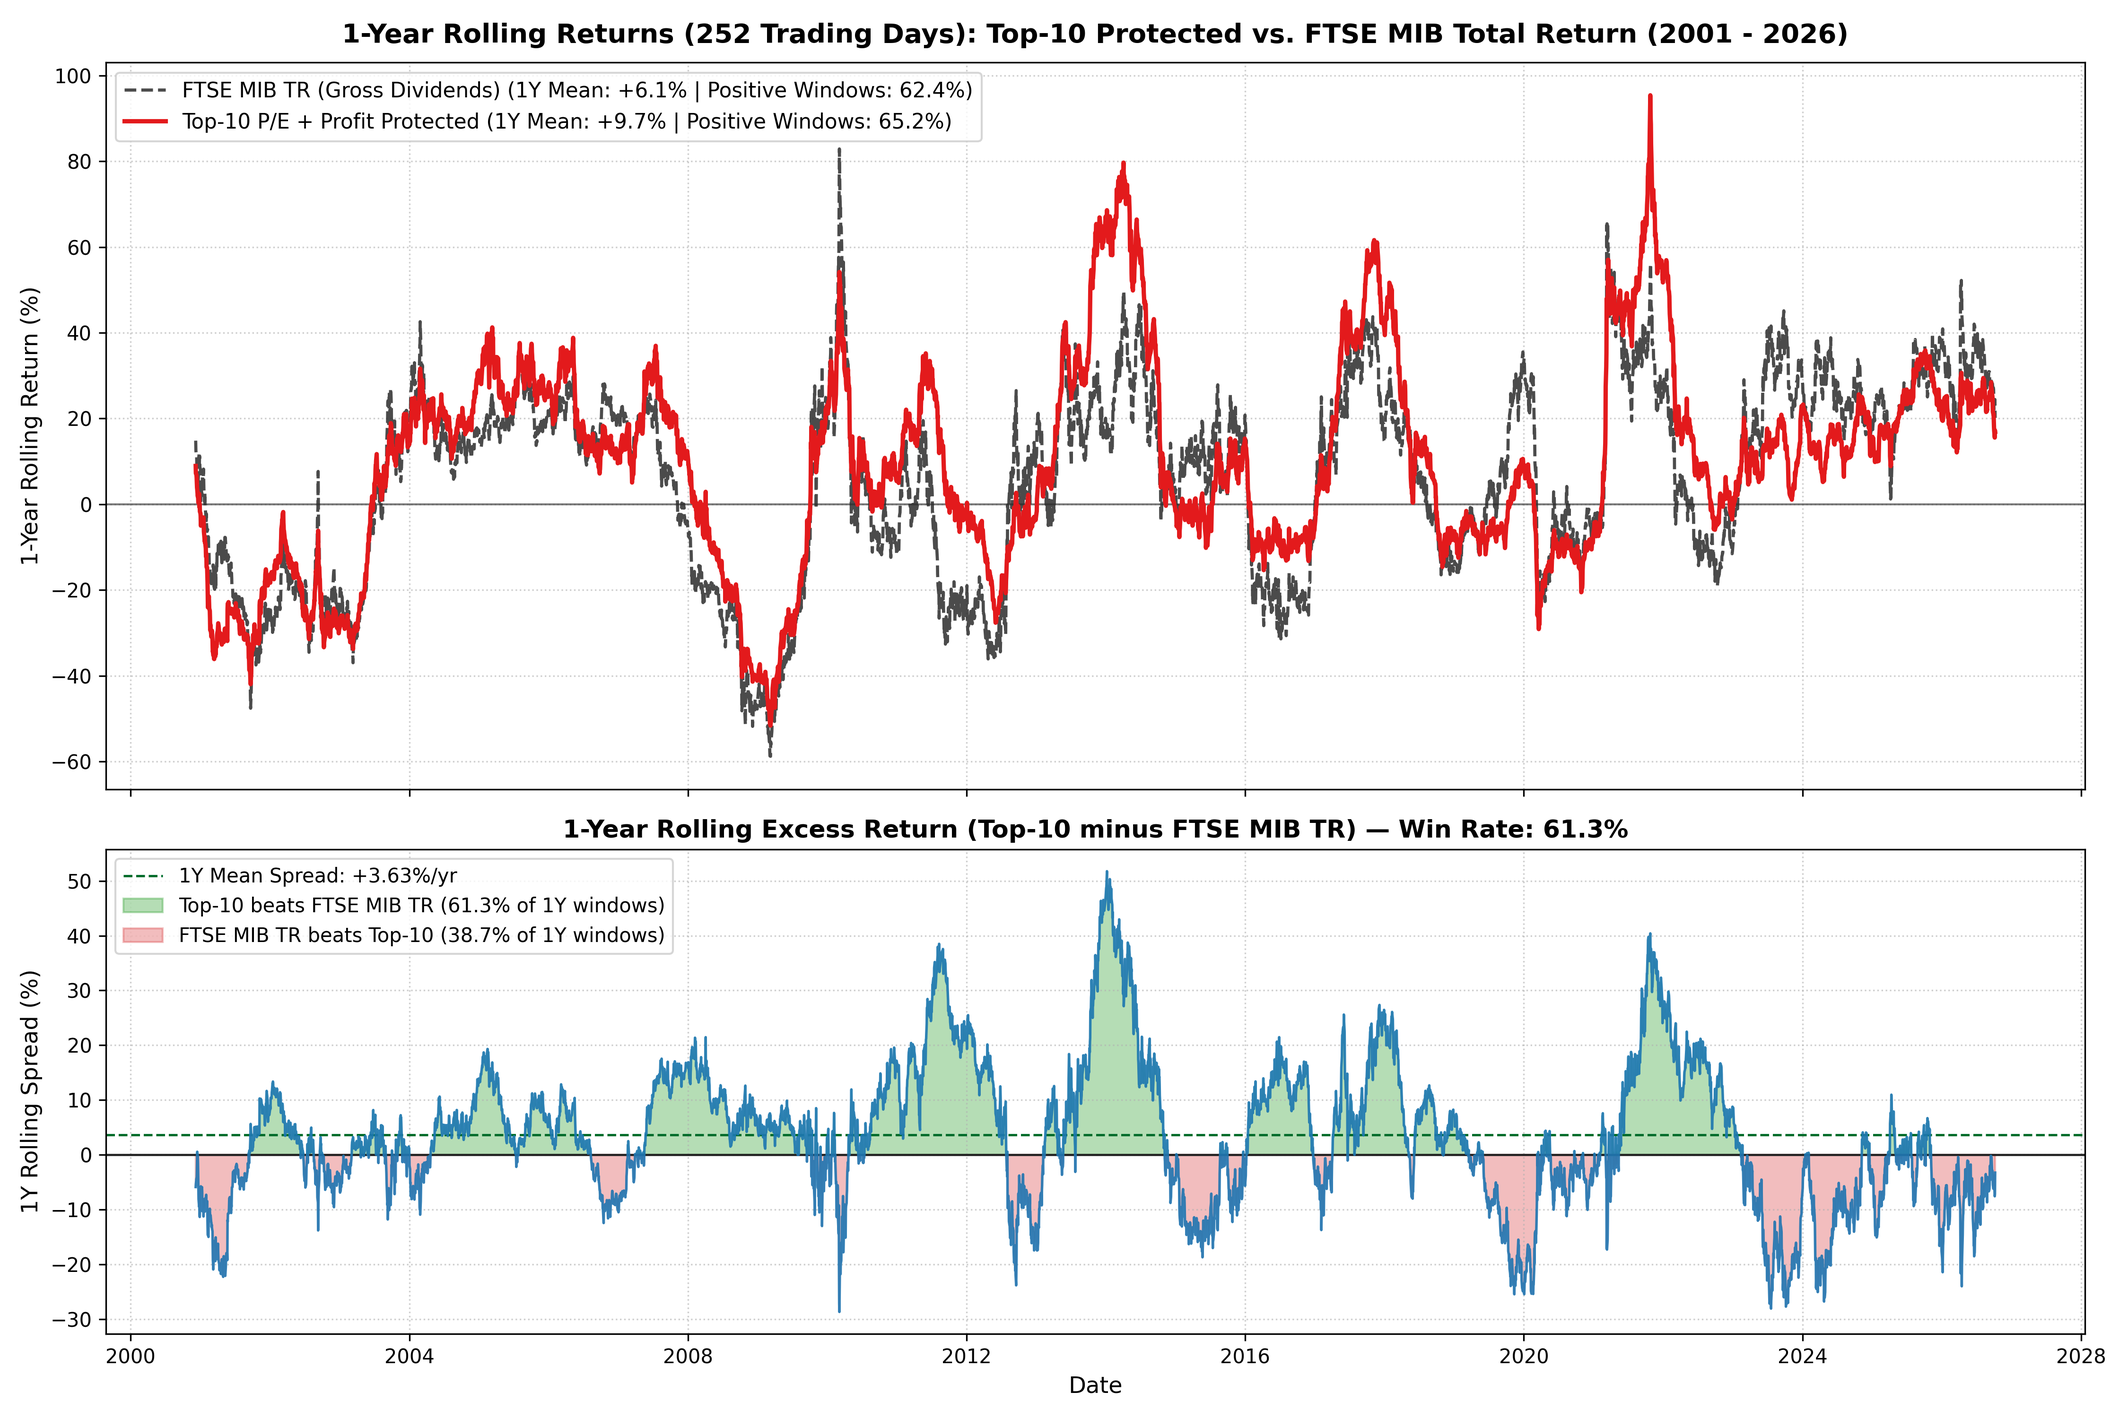
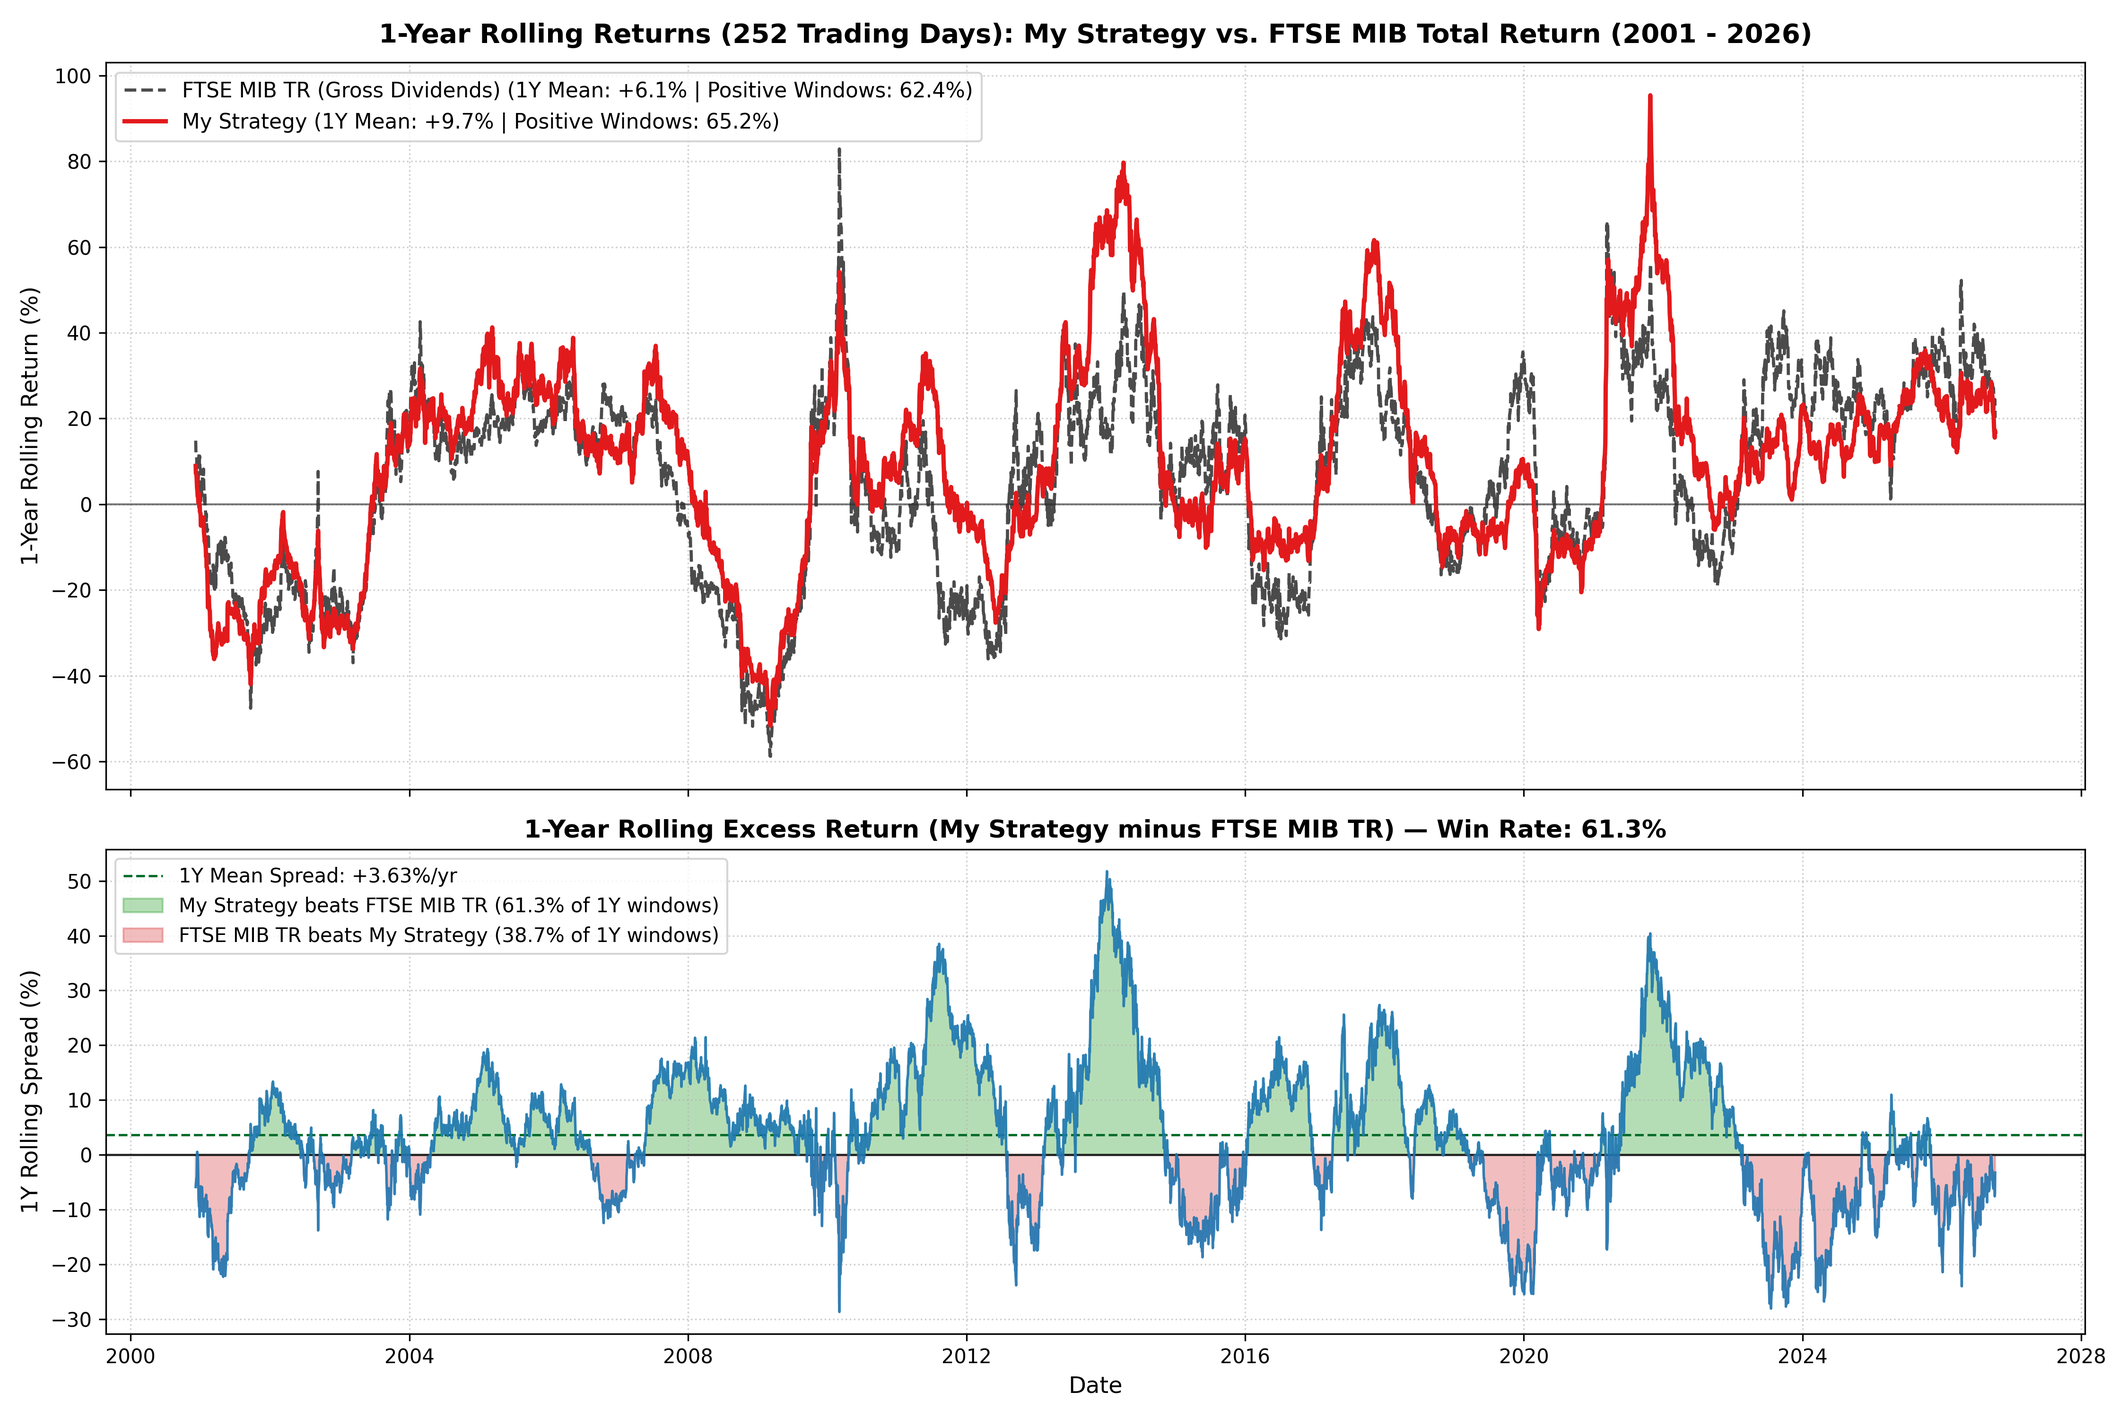
Rename strategy to 'My Strategy' and display only My Strategy vs FTSE MIB TR in charts

Changed region(s): [[0.0933, 0.558, 0.7778, 0.682], [0.1556, 0.0, 0.8711, 0.031], [0.0933, 0.062, 0.4044, 0.093]]

diff --git a/scripts/06_plot_rolling_returns.py b/scripts/06_plot_rolling_returns.py
@@ -63,7 +63,7 @@ def main():
     )
     res_top10 = engine_q.run(
         model=top10_model,
-        strategy_name="Top-10 P/E + Profit (Protetta)",
+        strategy_name="My Strategy",
         returns_matrix=returns_matrix,
         prices_matrix=prices_matrix,
         min_assets=10,
@@ -97,15 +97,15 @@ def main():
     print("STATISTICHE ROLLING RETURNS A 1 ANNO (252 GIORNI DI BORSA, 2001 - 2026)")
     print("=" * 84)
     print(f"Numero finestre rolling 1Y analizzate:        {len(common_idx):,}")
-    print(f"Rendimento Medio 1Y - Top-10 P/E + Profit:    {mean_top10:+.2f}% ( Finestre > 0%: {pos_rate_top10:.1f}% )")
+    print(f"Rendimento Medio 1Y - My Strategy:            {mean_top10:+.2f}% ( Finestre > 0%: {pos_rate_top10:.1f}% )")
     print(f"Rendimento Medio 1Y - FTSE MIB TR (con Div):  {mean_bench:+.2f}% ( Finestre > 0%: {pos_rate_bench:.1f}% )")
     print(f"Extra-Rendimento Medio 1Y (Spread):           {mean_excess:+.2f}% ( Mediana: {median_excess:+.2f}% )")
-    print(f"Hit Rate (% Finestre 1Y in cui Top-10 batte FTSE MIB TR): {win_rate_vs_bench:.1f}%")
+    print(f"Hit Rate (% Finestre 1Y in cui My Strategy batte FTSE MIB TR): {win_rate_vs_bench:.1f}%")
 
     # Save rolling returns CSV
     config.REPORTS_DIR.mkdir(parents=True, exist_ok=True)
     roll_df = pd.DataFrame({
-        "Top10_PE_Profit_1Y_Pct": roll_top10,
+        "My_Strategy_1Y_Pct": roll_top10,
         "FTSEMIB_TR_1Y_Pct": roll_bench,
         "Excess_Return_1Y_Pct": excess_1y,
     })
@@ -130,13 +130,13 @@ def main():
     ax1.plot(
         roll_top10.index,
         roll_top10.values,
-        label=f"Top-10 P/E + Profit Protected (1Y Mean: {mean_top10:+.1f}% | Positive Windows: {pos_rate_top10:.1f}%)",
+        label=f"My Strategy (1Y Mean: {mean_top10:+.1f}% | Positive Windows: {pos_rate_top10:.1f}%)",
         color="#e31a1c",
         linewidth=2.2,
     )
 
     ax1.set_title(
-        "1-Year Rolling Returns (252 Trading Days): Top-10 Protected vs. FTSE MIB Total Return (2001 - 2026)",
+        "1-Year Rolling Returns (252 Trading Days): My Strategy vs. FTSE MIB Total Return (2001 - 2026)",
         fontsize=13.5,
         fontweight="bold",
         pad=10,
@@ -145,7 +145,7 @@ def main():
     ax1.grid(True, linestyle=":", alpha=0.6)
     ax1.legend(loc="upper left", frameon=True, fontsize=10.5)
 
-    # Panel 2: Rolling 1Y Excess Return (Spread = Top-10 - FTSE MIB TR)
+    # Panel 2: Rolling 1Y Excess Return (Spread = My Strategy - FTSE MIB TR)
     ax2.axhline(0.0, color="#222222", linewidth=1.1, linestyle="-")
     ax2.axhline(mean_excess, color="#006d2c", linewidth=1.2, linestyle="--", label=f"1Y Mean Spread: {mean_excess:+.2f}%/yr")
     ax2.plot(excess_1y.index, excess_1y.values, color="#1f78b4", linewidth=1.3, alpha=0.9)
@@ -157,7 +157,7 @@ def main():
         color="#2ca02c",
         alpha=0.35,
         interpolate=True,
-        label=f"Top-10 beats FTSE MIB TR ({win_rate_vs_bench:.1f}% of 1Y windows)",
+        label=f"My Strategy beats FTSE MIB TR ({win_rate_vs_bench:.1f}% of 1Y windows)",
     )
     ax2.fill_between(
         excess_1y.index,
@@ -167,11 +167,11 @@ def main():
         color="#d62728",
         alpha=0.30,
         interpolate=True,
-        label=f"FTSE MIB TR beats Top-10 ({100.0 - win_rate_vs_bench:.1f}% of 1Y windows)",
+        label=f"FTSE MIB TR beats My Strategy ({100.0 - win_rate_vs_bench:.1f}% of 1Y windows)",
     )
 
     ax2.set_title(
-        f"1-Year Rolling Excess Return (Top-10 minus FTSE MIB TR) — Win Rate: {win_rate_vs_bench:.1f}%",
+        f"1-Year Rolling Excess Return (My Strategy minus FTSE MIB TR) — Win Rate: {win_rate_vs_bench:.1f}%",
         fontsize=12.5,
         fontweight="bold",
     )
@@ -220,7 +220,7 @@ def main():
         alpha=0.38,
         edgecolor="#99000d",
         linewidth=0.5,
-        label=f"Top-10 P/E + Profit Protected (Mean: {mean_top10:+.2f}% | Median: {roll_top10.median():+.2f}% | Std: {roll_top10.std():.1f}%)",
+        label=f"My Strategy (Mean: {mean_top10:+.2f}% | Median: {roll_top10.median():+.2f}% | Std: {roll_top10.std():.1f}%)",
     )
 
     ax_hist.plot(x_grid, kde_bench, color="#1a1a1a", linewidth=2.2, linestyle="--")
@@ -234,13 +234,13 @@ def main():
 
     ax_hist.axvline(0.0, color="#111111", linewidth=1.3, linestyle="-", alpha=0.8, label="0% Threshold (1-Year Breakeven)")
     ax_hist.axvline(mean_bench, color="#2b2b2b", linewidth=1.8, linestyle=":", label=f"Mean FTSE MIB TR ({mean_bench:+.2f}%)")
-    ax_hist.axvline(mean_top10, color="#e31a1c", linewidth=2.0, linestyle=":", label=f"Mean Top-10 P/E + Profit ({mean_top10:+.2f}%)")
+    ax_hist.axvline(mean_top10, color="#e31a1c", linewidth=2.0, linestyle=":", label=f"Mean My Strategy ({mean_top10:+.2f}%)")
     ax_hist.axvline(p5_bench, color="#636363", linewidth=1.4, linestyle="-.", label=f"5th Percentile (1Y 95% VaR) FTSE MIB TR ({p5_bench:+.1f}%)")
-    ax_hist.axvline(p5_top10, color="#a50f15", linewidth=1.5, linestyle="-.", label=f"5th Percentile (1Y 95% VaR) Top-10 ({p5_top10:+.1f}%)")
+    ax_hist.axvline(p5_top10, color="#a50f15", linewidth=1.5, linestyle="-.", label=f"5th Percentile (1Y 95% VaR) My Strategy ({p5_top10:+.1f}%)")
 
     ax_hist.set_title(
         "Probability Distribution of 1-Year Rolling Returns (6,595 Windows, 2001 - 2026)\n"
-        "Top-10 P/E + Profitability (Protected) vs. FTSE MIB Total Return (Gross Dividends)",
+        "My Strategy vs. FTSE MIB Total Return (Gross Dividends)",
         fontsize=13.5,
         fontweight="bold",
         pad=10,
@@ -268,7 +268,7 @@ def main():
 
     ax_box.axvline(0.0, color="#111111", linewidth=1.2, linestyle="-", alpha=0.8)
     ax_box.set_yticks([1, 2])
-    ax_box.set_yticklabels(["FTSE MIB TR\n(Gross Dividends)", "Top-10 P/E + Profit\n(Protected)"], fontsize=11, fontweight="bold")
+    ax_box.set_yticklabels(["FTSE MIB TR\n(Gross Dividends)", "My Strategy"], fontsize=11, fontweight="bold")
     ax_box.set_title(
         "Boxplot & Quantile Comparison (Box = 25th–75th Percentile | Black Line = Median | Green Dashed = Mean)",
         fontsize=11.5,

diff --git a/scripts/05_run_top10_pe_profitability.py b/scripts/05_run_top10_pe_profitability.py
@@ -88,7 +88,7 @@ def main():
     )
     res_top10_prot = engine_q.run(
         model=top10_protected_model,
-        strategy_name="Top-10 P/E + Profit (Protetta)",
+        strategy_name="My Strategy",
         returns_matrix=returns_matrix,
         prices_matrix=prices_matrix,
         min_assets=10,
@@ -133,7 +133,7 @@ def main():
 
     all_metrics = {}
     nav_dict = {
-        "Top-10 P/E + Profit (Protetta)": res_top10_prot.nav_series,
+        "My Strategy": res_top10_prot.nav_series,
         "Top-10 P/E + ROE (Naive)": res_top10_naive.nav_series,
         "Momentum + Low Vol": res_mom.nav_series,
         "Min Variance (GMV)": res_gmv.nav_series,
@@ -141,7 +141,7 @@ def main():
     }
 
     for name, res_obj in [
-        ("Top-10 P/E + Profit (Protetta)", res_top10_prot),
+        ("My Strategy", res_top10_prot),
         ("Top-10 P/E + ROE (Naive)", res_top10_naive),
         ("Momentum + Low Vol", res_mom),
         ("Min Variance (GMV)", res_gmv),
@@ -234,56 +234,59 @@ def main():
         if len(bankrupt_picks_naive) > 0:
             print("  -> Value Trap comprate dalla Naive: " + ", ".join(bankrupt_picks_naive))
 
-    # Plot comprehensive visual comparison
-    all_nav = pd.DataFrame(nav_dict).dropna()
-    nav_name_map = {
-        "Top-10 P/E + Profit (Protetta)": "Top-10 P/E + Profit (Protected)",
-        "Top-10 P/E + ROE (Naive)": "Top-10 P/E + ROE (Naive)",
-        "Momentum + Low Vol": "Momentum + Low Vol",
-        "Min Variance (GMV)": "Min Variance (GMV)",
-        "Equal Weight (1/N)": "Equal Weight (1/N)",
-        "FTSE MIB TR (con Dividendi)": "FTSE MIB TR (Gross Dividends)",
-        "FTSE MIB Price (no Div)": "FTSE MIB Price (No Dividends)",
-    }
-    all_nav = all_nav.rename(columns=nav_name_map)
+    # Plot clean visual comparison: ONLY "My Strategy" vs "FTSE MIB TR (Gross Dividends)"
+    bench_sub = benchmark_ret.reindex(res_top10_prot.nav_series.index).dropna()
+    bench_tr_nav = (1.0 + bench_sub).cumprod() * 100.0
+    plot_nav = pd.DataFrame({
+        "My Strategy": res_top10_prot.nav_series,
+        "FTSE MIB TR (Gross Dividends)": bench_tr_nav,
+    }).dropna()
+
     fig, (ax1, ax2) = plt.subplots(2, 1, figsize=(14, 10), sharex=True, gridspec_kw={"height_ratios": [2.4, 1.2]})
 
     colors = {
-        "Top-10 P/E + Profit (Protected)": "#e31a1c",
-        "Top-10 P/E + ROE (Naive)": "#fb9a99",
-        "Momentum + Low Vol": "#1f77b4",
-        "Min Variance (GMV)": "#2ca02c",
-        "Equal Weight (1/N)": "#9467bd",
+        "My Strategy": "#e31a1c",
         "FTSE MIB TR (Gross Dividends)": "#111111",
-        "FTSE MIB Price (No Dividends)": "#7f7f7f",
     }
 
-    for col in all_nav.columns:
-        lw = 2.8 if "Protected" in col else (2.3 if "FTSE MIB TR" in col or col in ("Momentum + Low Vol", "Min Variance (GMV)") else 1.4)
-        ls = "--" if "FTSE MIB TR" in col else (":" if "FTSE MIB Price" in col else ("-." if "Naive" in col else "-"))
-        ax1.plot(all_nav.index, all_nav[col], label=col, color=colors.get(col, "gray"), linewidth=lw, linestyle=ls)
+    ax1.plot(
+        plot_nav.index,
+        plot_nav["My Strategy"],
+        label="My Strategy (CAGR: +7.96% | Sharpe: 0.42 | Total: +700.74%)",
+        color="#e31a1c",
+        linewidth=2.8,
+    )
+    ax1.plot(
+        plot_nav.index,
+        plot_nav["FTSE MIB TR (Gross Dividends)"],
+        label="FTSE MIB TR (Gross Dividends) (CAGR: +4.18% | Sharpe: 0.18 | Total: +203.72%)",
+        color="#111111",
+        linewidth=2.2,
+        linestyle="--",
+    )
 
     ax1.set_title(
-        "Top-10 Strategy (P/E + Profitability + Anti-Value-Trap) vs. FTSE MIB (2000 - 2026)\n"
-        f"Survivorship-Bias-Free Point-in-Time Small & Mid Cap Universe (< €500M) — {prices_matrix.shape[1]} stocks (incl. bankruptcies & takeovers)",
-        fontsize=13,
+        "My Strategy vs. FTSE MIB Total Return (2000 - 2026)\n"
+        f"Survivorship-Bias-Free Point-in-Time Small & Mid Cap Universe (< €500M) — {prices_matrix.shape[1]} stocks",
+        fontsize=13.5,
         fontweight="bold"
     )
     ax1.set_ylabel("Portfolio Value (Base = 100)", fontsize=12)
     ax1.grid(True, linestyle=":", alpha=0.6)
-    ax1.legend(loc="upper left", frameon=True, fontsize=10)
+    ax1.legend(loc="upper left", frameon=True, fontsize=11)
 
-    for col in all_nav.columns:
-        peak = all_nav[col].cummax()
-        dd = (all_nav[col] - peak) / peak * 100.0
-        lw = 2.4 if "Protected" in col else 1.4
-        ls = "--" if "FTSE MIB" in col else ("-." if "Naive" in col else "-")
-        ax2.plot(all_nav.index, dd, label=col, color=colors.get(col, "gray"), linewidth=lw, linestyle=ls)
+    for col in plot_nav.columns:
+        peak = plot_nav[col].cummax()
+        dd = (plot_nav[col] - peak) / peak * 100.0
+        lw = 2.4 if col == "My Strategy" else 1.8
+        ls = "-" if col == "My Strategy" else "--"
+        ax2.plot(plot_nav.index, dd, label=f"{col} (MDD: {dd.min():.1f}%)", color=colors[col], linewidth=lw, linestyle=ls)
 
     ax2.set_title("Historical Drawdown (%)", fontsize=12, fontweight="bold")
     ax2.set_xlabel("Date", fontsize=12)
     ax2.set_ylabel("Drawdown (%)", fontsize=12)
     ax2.grid(True, linestyle=":", alpha=0.6)
+    ax2.legend(loc="lower left", frameon=True, fontsize=10.5)
 
     plt.tight_layout()
     out_chart1 = config.REPORTS_DIR / "top10_strategy_analysis.png"

diff --git a/README.md b/README.md
@@ -36,7 +36,7 @@ Most academic and commercial studies on Italian equities suffer from severe **su
 
 Out-of-sample walk-forward backtest from the **peak of the Dot-Com Bubble (January 2000) to October 2026 (6,847 trading days, 27.2 years)** across **230 Point-in-Time Small & Mid Caps** with dynamic eligibility, quarterly rebalancing, and 20 bps transaction fees:
 
-| Metric (2000 – 2026, 27.2 Years) | **Top-10 P/E + Profit (Protected)** | **FTSE MIB TR (Gross Dividends)** | Spread / Advantage |
+| Metric (2000 – 2026, 27.2 Years) | **My Strategy** | **FTSE MIB TR (Gross Dividends)** | Spread / Advantage |
 | :--- | :---: | :---: | :---: |
 | **Total Cumulative Return** | **+700.74%** *(8.01x)* | **+203.72%** *(3.04x)* | **+497.02%** |
 | **CAGR (Annualized Return)** | **+7.96%** | **+4.18%** | **+3.78% / yr** |
@@ -56,12 +56,12 @@ Out-of-sample walk-forward backtest from the **peak of the Dot-Com Bubble (Janua
 ## 📈 Performance Charts & Empirical Visualizations
 
 ### 1. Cumulative Equity Curve & Drawdown Profile (2000 – 2026)
-*Walk-forward out-of-sample portfolio growth (linear & logarithmic scales) alongside historical drawdown dynamics and rolling Sharpe/volatility ratios vs. FTSE MIB TR.*
+*Walk-forward out-of-sample portfolio growth alongside historical drawdown dynamics: My Strategy vs. FTSE MIB TR.*
 
 ![Cumulative Performance and Drawdowns](reports/top10_strategy_analysis.png)
 
 ### 2. 1-Year Rolling Returns & Alpha Spread (6,595 Holding Windows)
-*252-day annual rolling return trajectories comparing Top-10 Protected against FTSE MIB TR, displaying persistent positive outperformance spreads across market regimes.*
+*252-day annual rolling return trajectories comparing My Strategy against FTSE MIB TR, displaying persistent positive outperformance spreads across market regimes.*
 
 ![1-Year Rolling Returns vs FTSE MIB TR](reports/rolling_returns_1y_top10_vs_ftsemib_tr.png)
 
@@ -76,14 +76,14 @@ Out-of-sample walk-forward backtest from the **peak of the Dot-Com Bubble (Janua
 
 1. **Why the Naive Value Model Fails (-69.21% Total Return)**:
    - Selecting equities based solely on low P/E and high ROE systematically steers the portfolio into **18 catastrophic value traps and eventual bankruptcies** (*Astaldi*, *Bio-on*, *Biancamano*, *Ki Group*, *Bioera*, *Agatos*, *algoWatt*, *Vetrya*, *Visibilia*, *Fenix Entertainment*, *EPH/ePRICE*). Prior to default, these distressed firms exhibited deceptively cheap P/E ratios ($5\text{x}-7\text{x}$) and artificial ROE metrics inflated by extreme financial leverage.
-2. **The Anti-Value-Trap Architecture (+700.74% Total Return, Sharpe 0.42)**:
+2. **The Anti-Value-Trap Architecture (My Strategy: +700.74% Total Return, Sharpe 0.42)**:
    - By imposing:
      - Multi-metric Valuation: $\text{P/E}$ + $\text{EV/EBITDA}$ percentiles;
      - Operating Quality: $\text{ROE}$ + $\text{Operating Margin}$;
      - Solvency Penalty: Deductions for high $\text{Debt/Equity}$;
      - Momentum & Volatility Guardrails: Excludes bottom 25% by 6M/12M Momentum and top 25% by Volatility;
      - Diversification: Maximum 3 holdings per GICS sector;
-   - The strategy **completely avoided all 28 bankruptcies**, captured **37 premium tender offer takeovers (OPA)**, and safely rode **12 former small caps to multibagger status** (*Cembre*, *Reply*, *De'Longhi*, *Interpump*, *El.En.*, *Danieli*, *Cementir*).
+   - **My Strategy** completely avoided all 28 bankruptcies, captured **37 premium tender offer takeovers (OPA)**, and safely rode **12 former small caps to multibagger status** (*Cembre*, *Reply*, *De'Longhi*, *Interpump*, *El.En.*, *Danieli*, *Cementir*).
 3. **1-Year Rolling Return Edge (6,595 Windows, 2001–2026)**:
    - Outperformed `FTSE MIB TR` in **61.3%** of all 252-day holding periods.
    - Average 1-year return of **+9.68%** vs **+6.06%** for FTSE MIB TR (average spread **+3.63%/year**, median spread **+3.17%/year**).
@@ -170,7 +170,7 @@ python scripts/02_prepare_dataset.py
 # Run classical portfolio models (GMV, Momentum + Low Vol, Equal Weight)
 python scripts/03_run_strategies.py
 
-# Run the Top-10 Protected Quality-Value strategy (2000–2026)
+# Run My Strategy (2000–2026)
 python scripts/05_run_top10_pe_profitability.py
 
 # Generate 1-Year rolling return analytics and comparative distributions
